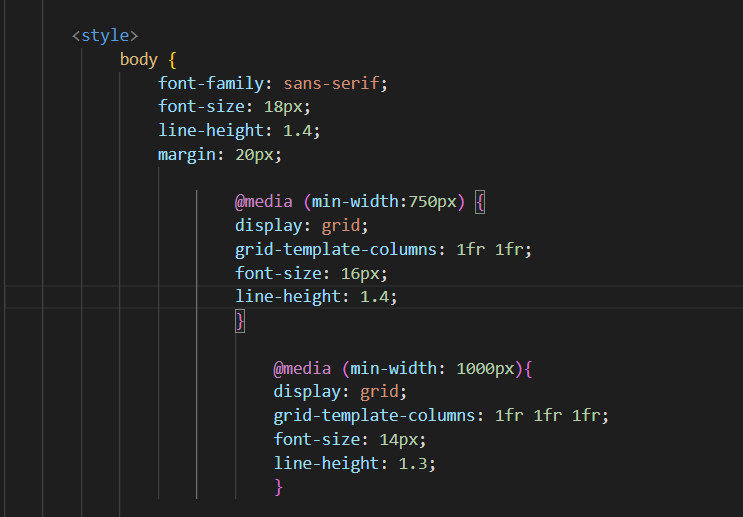
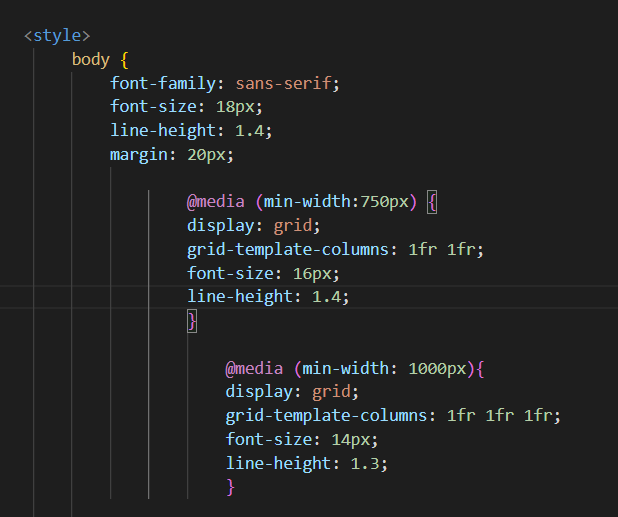
screenshot grootte aanpassing

diff --git a/styles/projecten.css b/styles/projecten.css
@@ -297,8 +297,10 @@
                             width: auto;
                         }
 
+                    /* Foto in de details bij dag 30 september */  
                     .screenshot {
-                        height: 250px;
+                        height: 300px;
+                        width: auto;
                         padding-left: 30px;
                         object-fit: cover;
                     }
